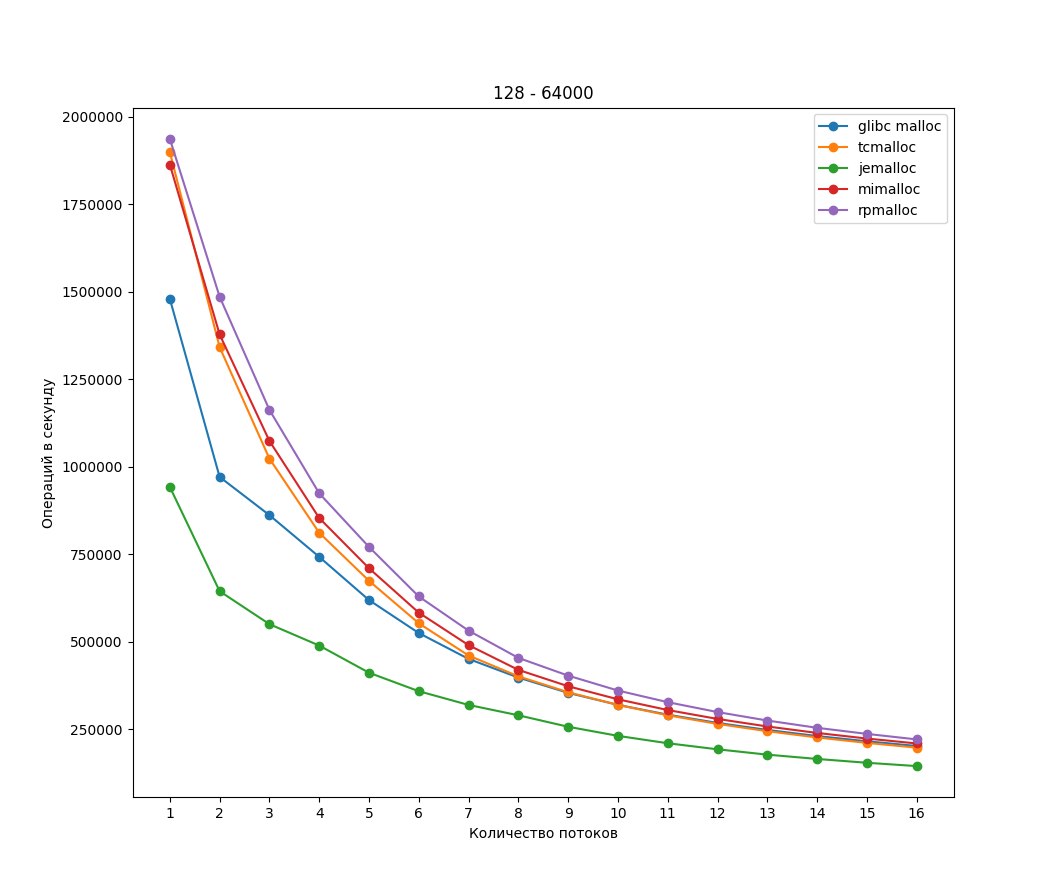
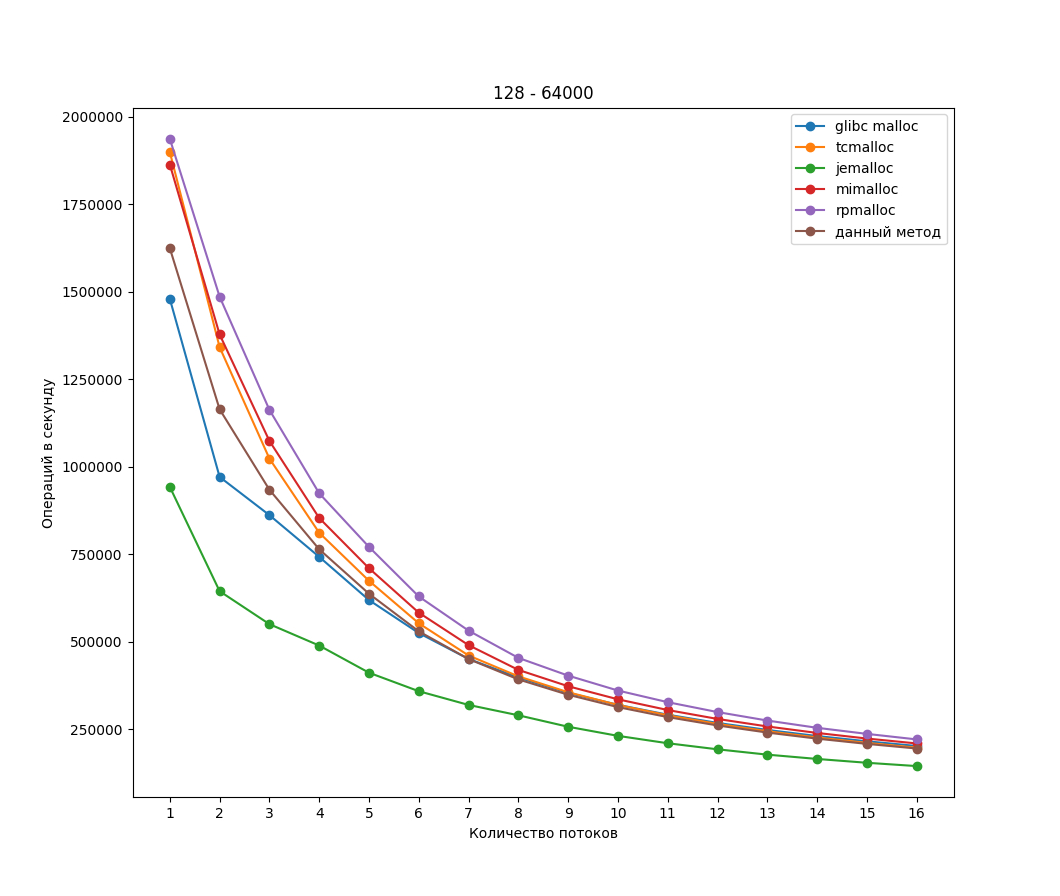
add method to graph

diff --git a/visualize.py b/visualize.py
@@ -46,12 +46,14 @@ for key in all_stats:
     jemalloc_ops = []
     mimalloc_ops = []
     rpmalloc_ops = []
+    # ops = []
 
     malloc_overhead = []
     tcmalloc_overhead = []
     jemalloc_overhead = []
     mimalloc_overhead = []
     rpmalloc_overhead = []
+    # overhead = []
 
     for stats in all_stats[key]:
         threads.append(stats['threads'])
@@ -61,6 +63,8 @@ for key in all_stats:
         jemalloc_ops.append(stats['jemalloc']['ops'])
         mimalloc_ops.append(stats['mimalloc']['ops'])
         rpmalloc_ops.append(stats['rpmalloc']['ops'])
+        # ops.append((malloc_ops[-1] + tcmalloc_ops[-1] + jemalloc_ops[-1] +
+        #     mimalloc_ops[-1] + rpmalloc_ops[-1]) / 5)
 
         malloc_overhead.append(100 * (stats['malloc']['usage'] - stats['malloc']['sample']) /
                 stats['malloc']['usage'])
@@ -72,6 +76,8 @@ for key in all_stats:
                 stats['mimalloc']['usage'])
         rpmalloc_overhead.append(100 * (stats['rpmalloc']['usage'] - stats['rpmalloc']['sample']) /
                 stats['rpmalloc']['usage'])
+        # overhead.append((malloc_overhead[-1] + tcmalloc_overhead[-1] +
+        #     jemalloc_overhead[-1] + mimalloc_overhead[-1] + rpmalloc_overhead[-1]) / 5)
 
     fig, ax = plt.subplots()
 
@@ -80,6 +86,7 @@ for key in all_stats:
     ax.plot(threads, jemalloc_ops, 'o-', label='jemalloc')
     ax.plot(threads, mimalloc_ops, 'o-', label='mimalloc')
     ax.plot(threads, rpmalloc_ops, 'o-', label='rpmalloc')
+    # ax.plot(threads, ops, 'o-', label='данный метод')
 
     ax.set_xticks(np.arange(min(threads), max(threads) + 1, 1))
     ax.ticklabel_format(style='plain')
@@ -98,6 +105,7 @@ for key in all_stats:
     ax.plot(threads, jemalloc_overhead, 'o-', label='jemalloc')
     ax.plot(threads, mimalloc_overhead, 'o-', label='mimalloc')
     ax.plot(threads, rpmalloc_overhead, 'o-', label='rpmalloc')
+    # ax.plot(threads, overhead, 'o-', label='данный метод')
 
     ax.set_xticks(np.arange(min(threads), max(threads) + 1, 1))
     ax.ticklabel_format(style='plain')
